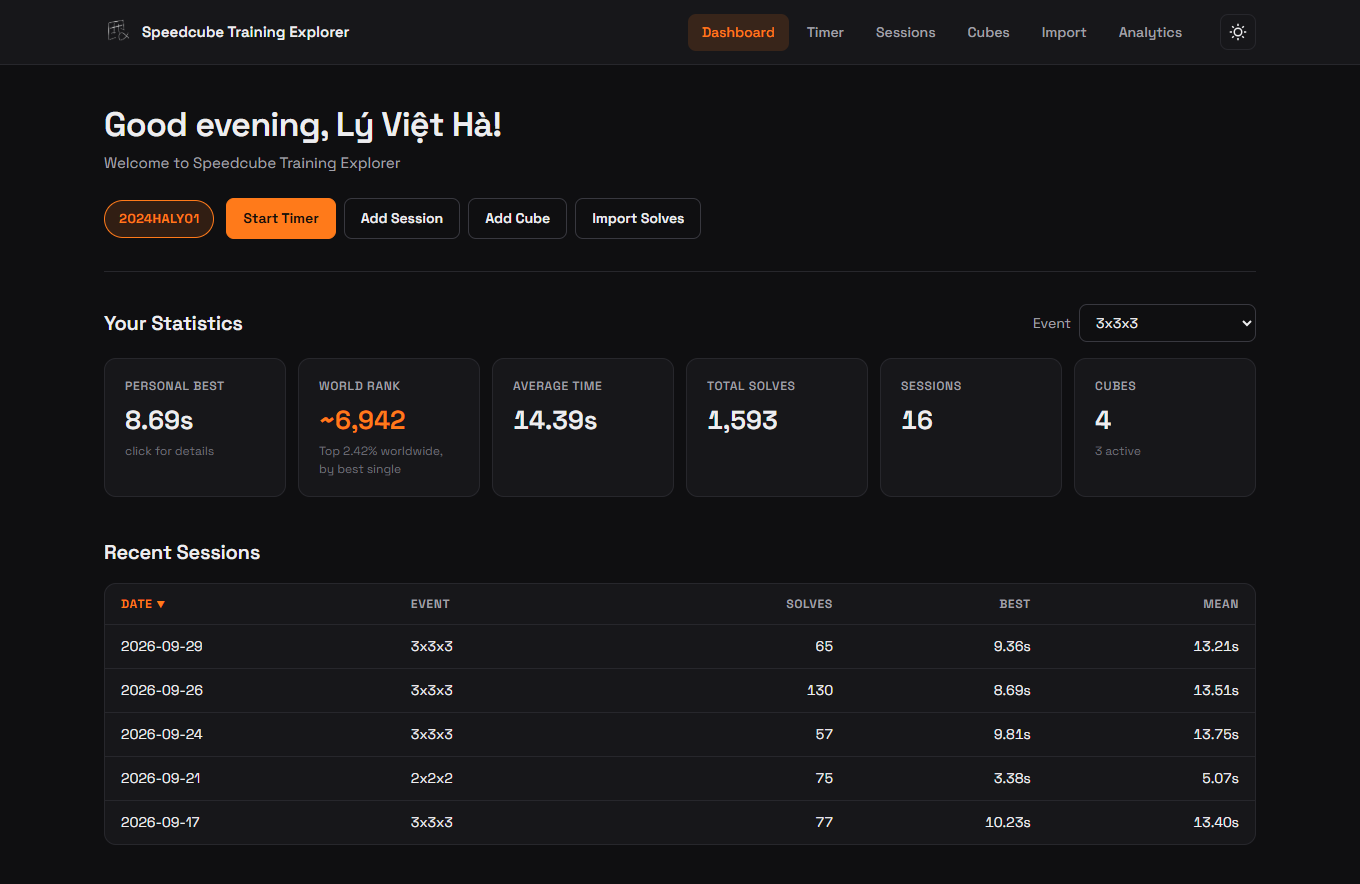
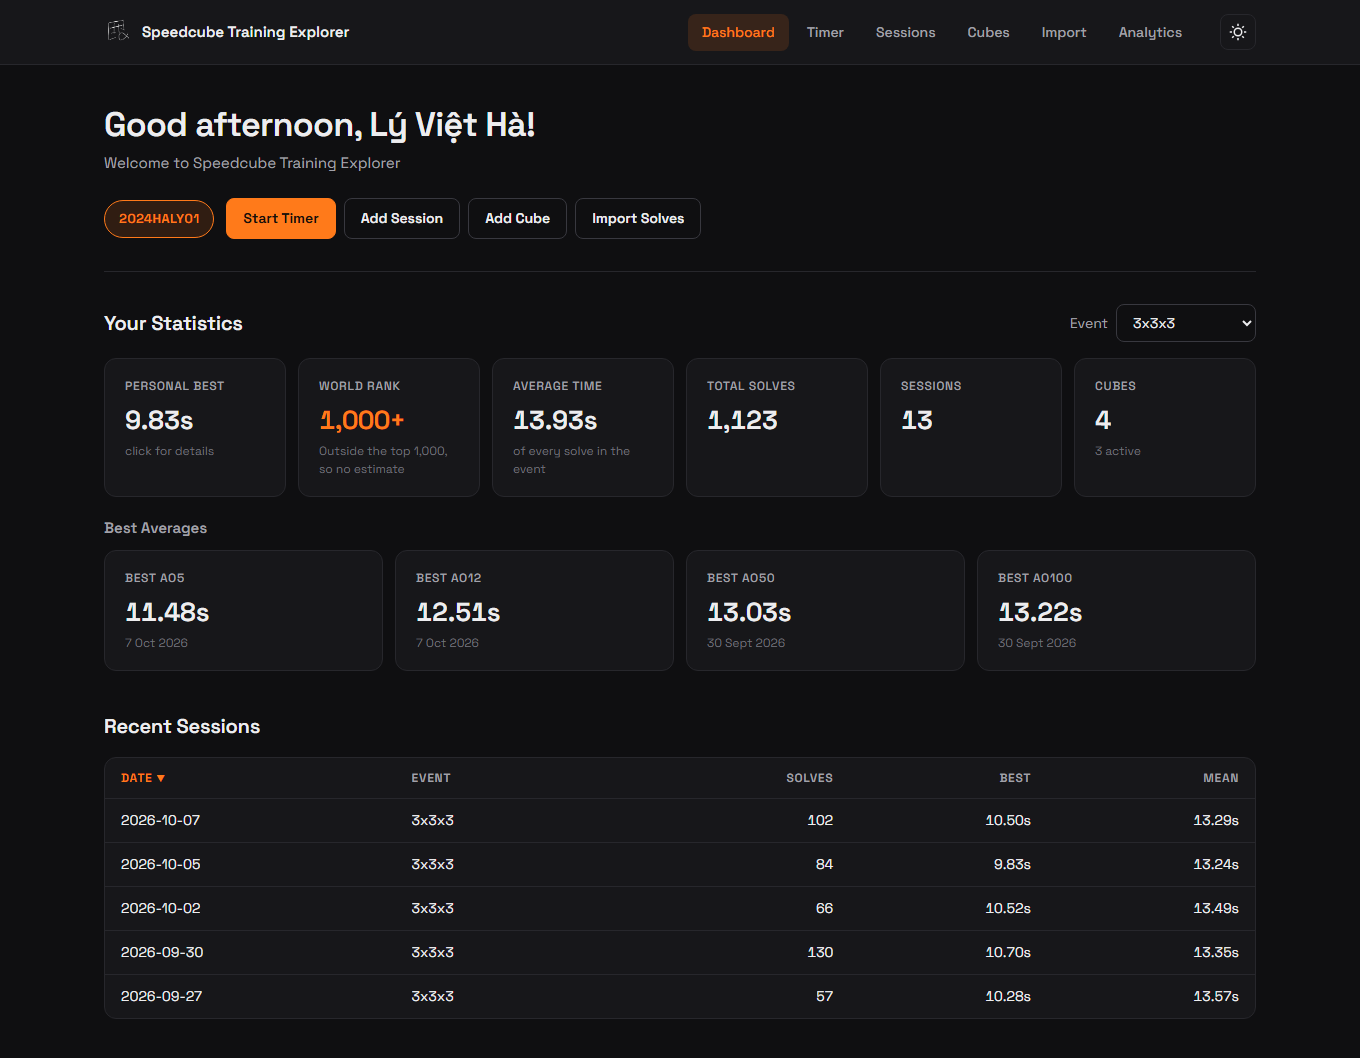
docs: retake the dashboard screenshot
The old one showed 3.0: no best averages, and a world rank estimated
beyond the top 1,000. This one is taken from a scratch database of
synthetic solves, at the same width, down to just below Recent
Sessions.

diff --git a/README.md b/README.md
@@ -17,7 +17,7 @@ and a double-click (or one command) starts it.
 ![uv](https://img.shields.io/badge/uv-DE5FE9?logo=uv&logoColor=white)
 ![Licence: MIT](https://img.shields.io/badge/licence-MIT-FF7A1A)
 
-![The dashboard in dark mode, greeting the user by name with their personal best, world rank, average time and recent sessions](docs/screenshots/dashboard-dark.png)
+![The dashboard in dark mode, greeting the user by name with their personal best, world rank, average time, best averages, and recent sessions](docs/screenshots/dashboard-dark.png)
 
 ---
 
